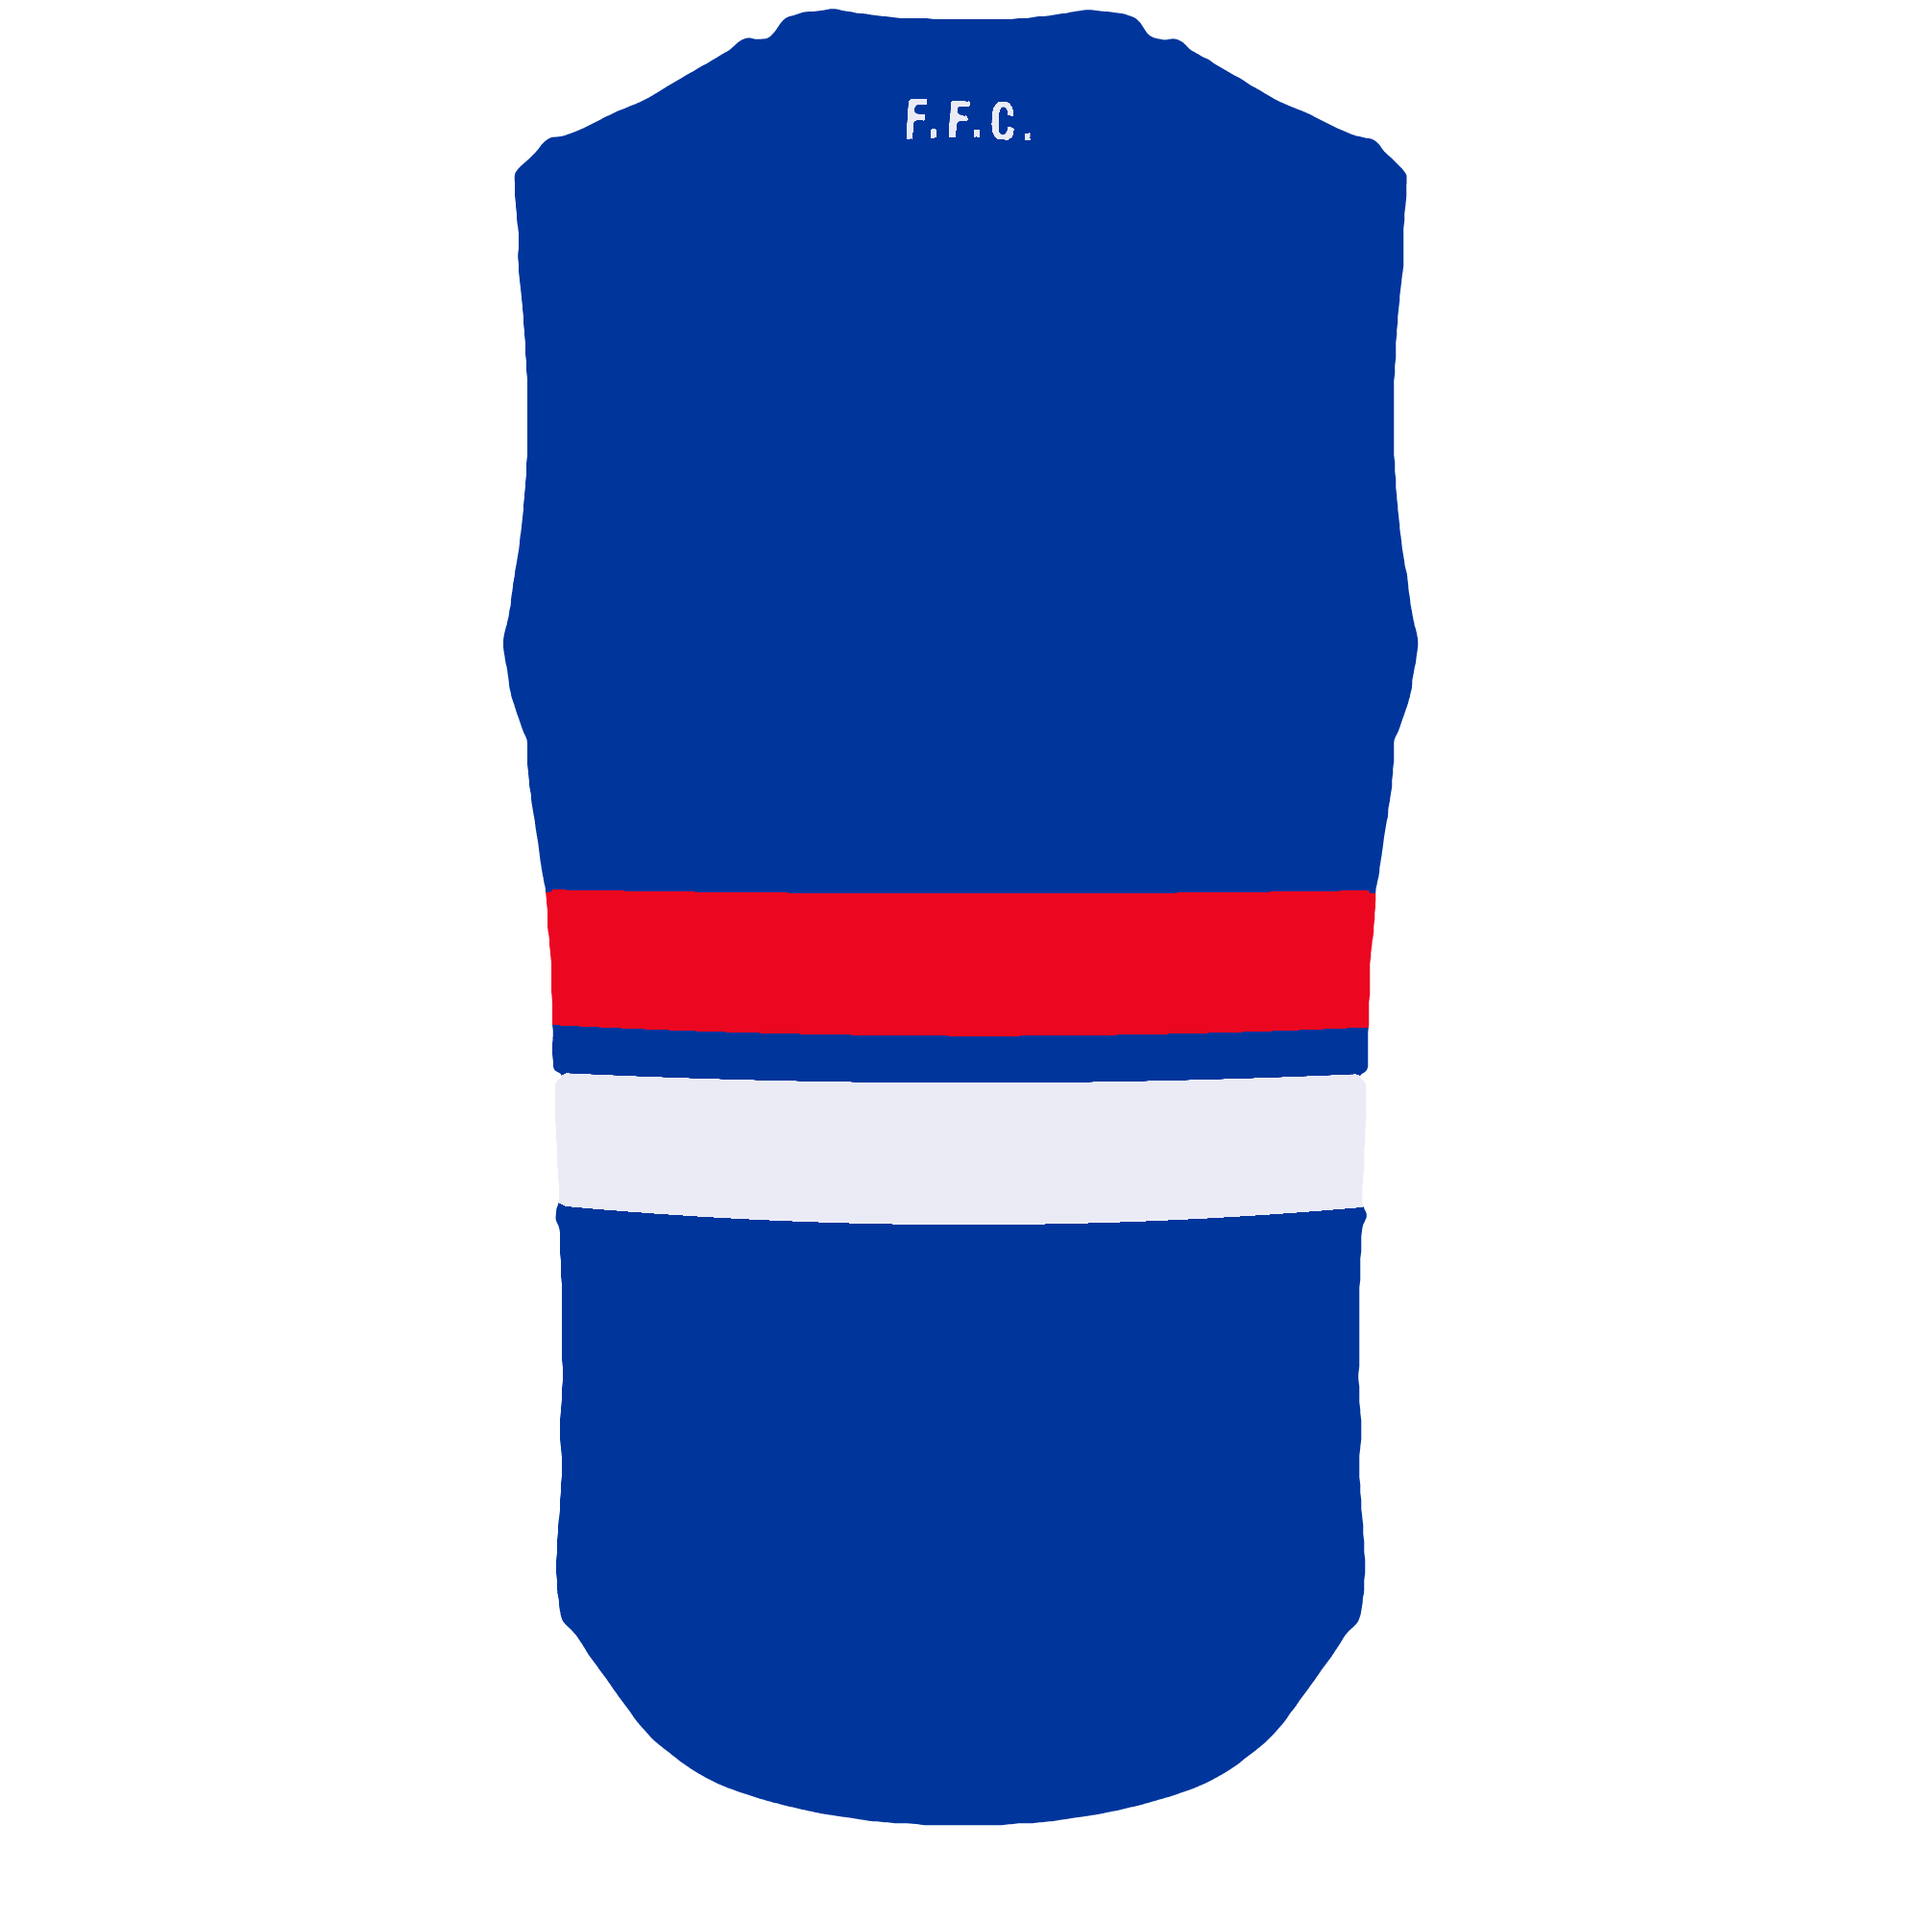
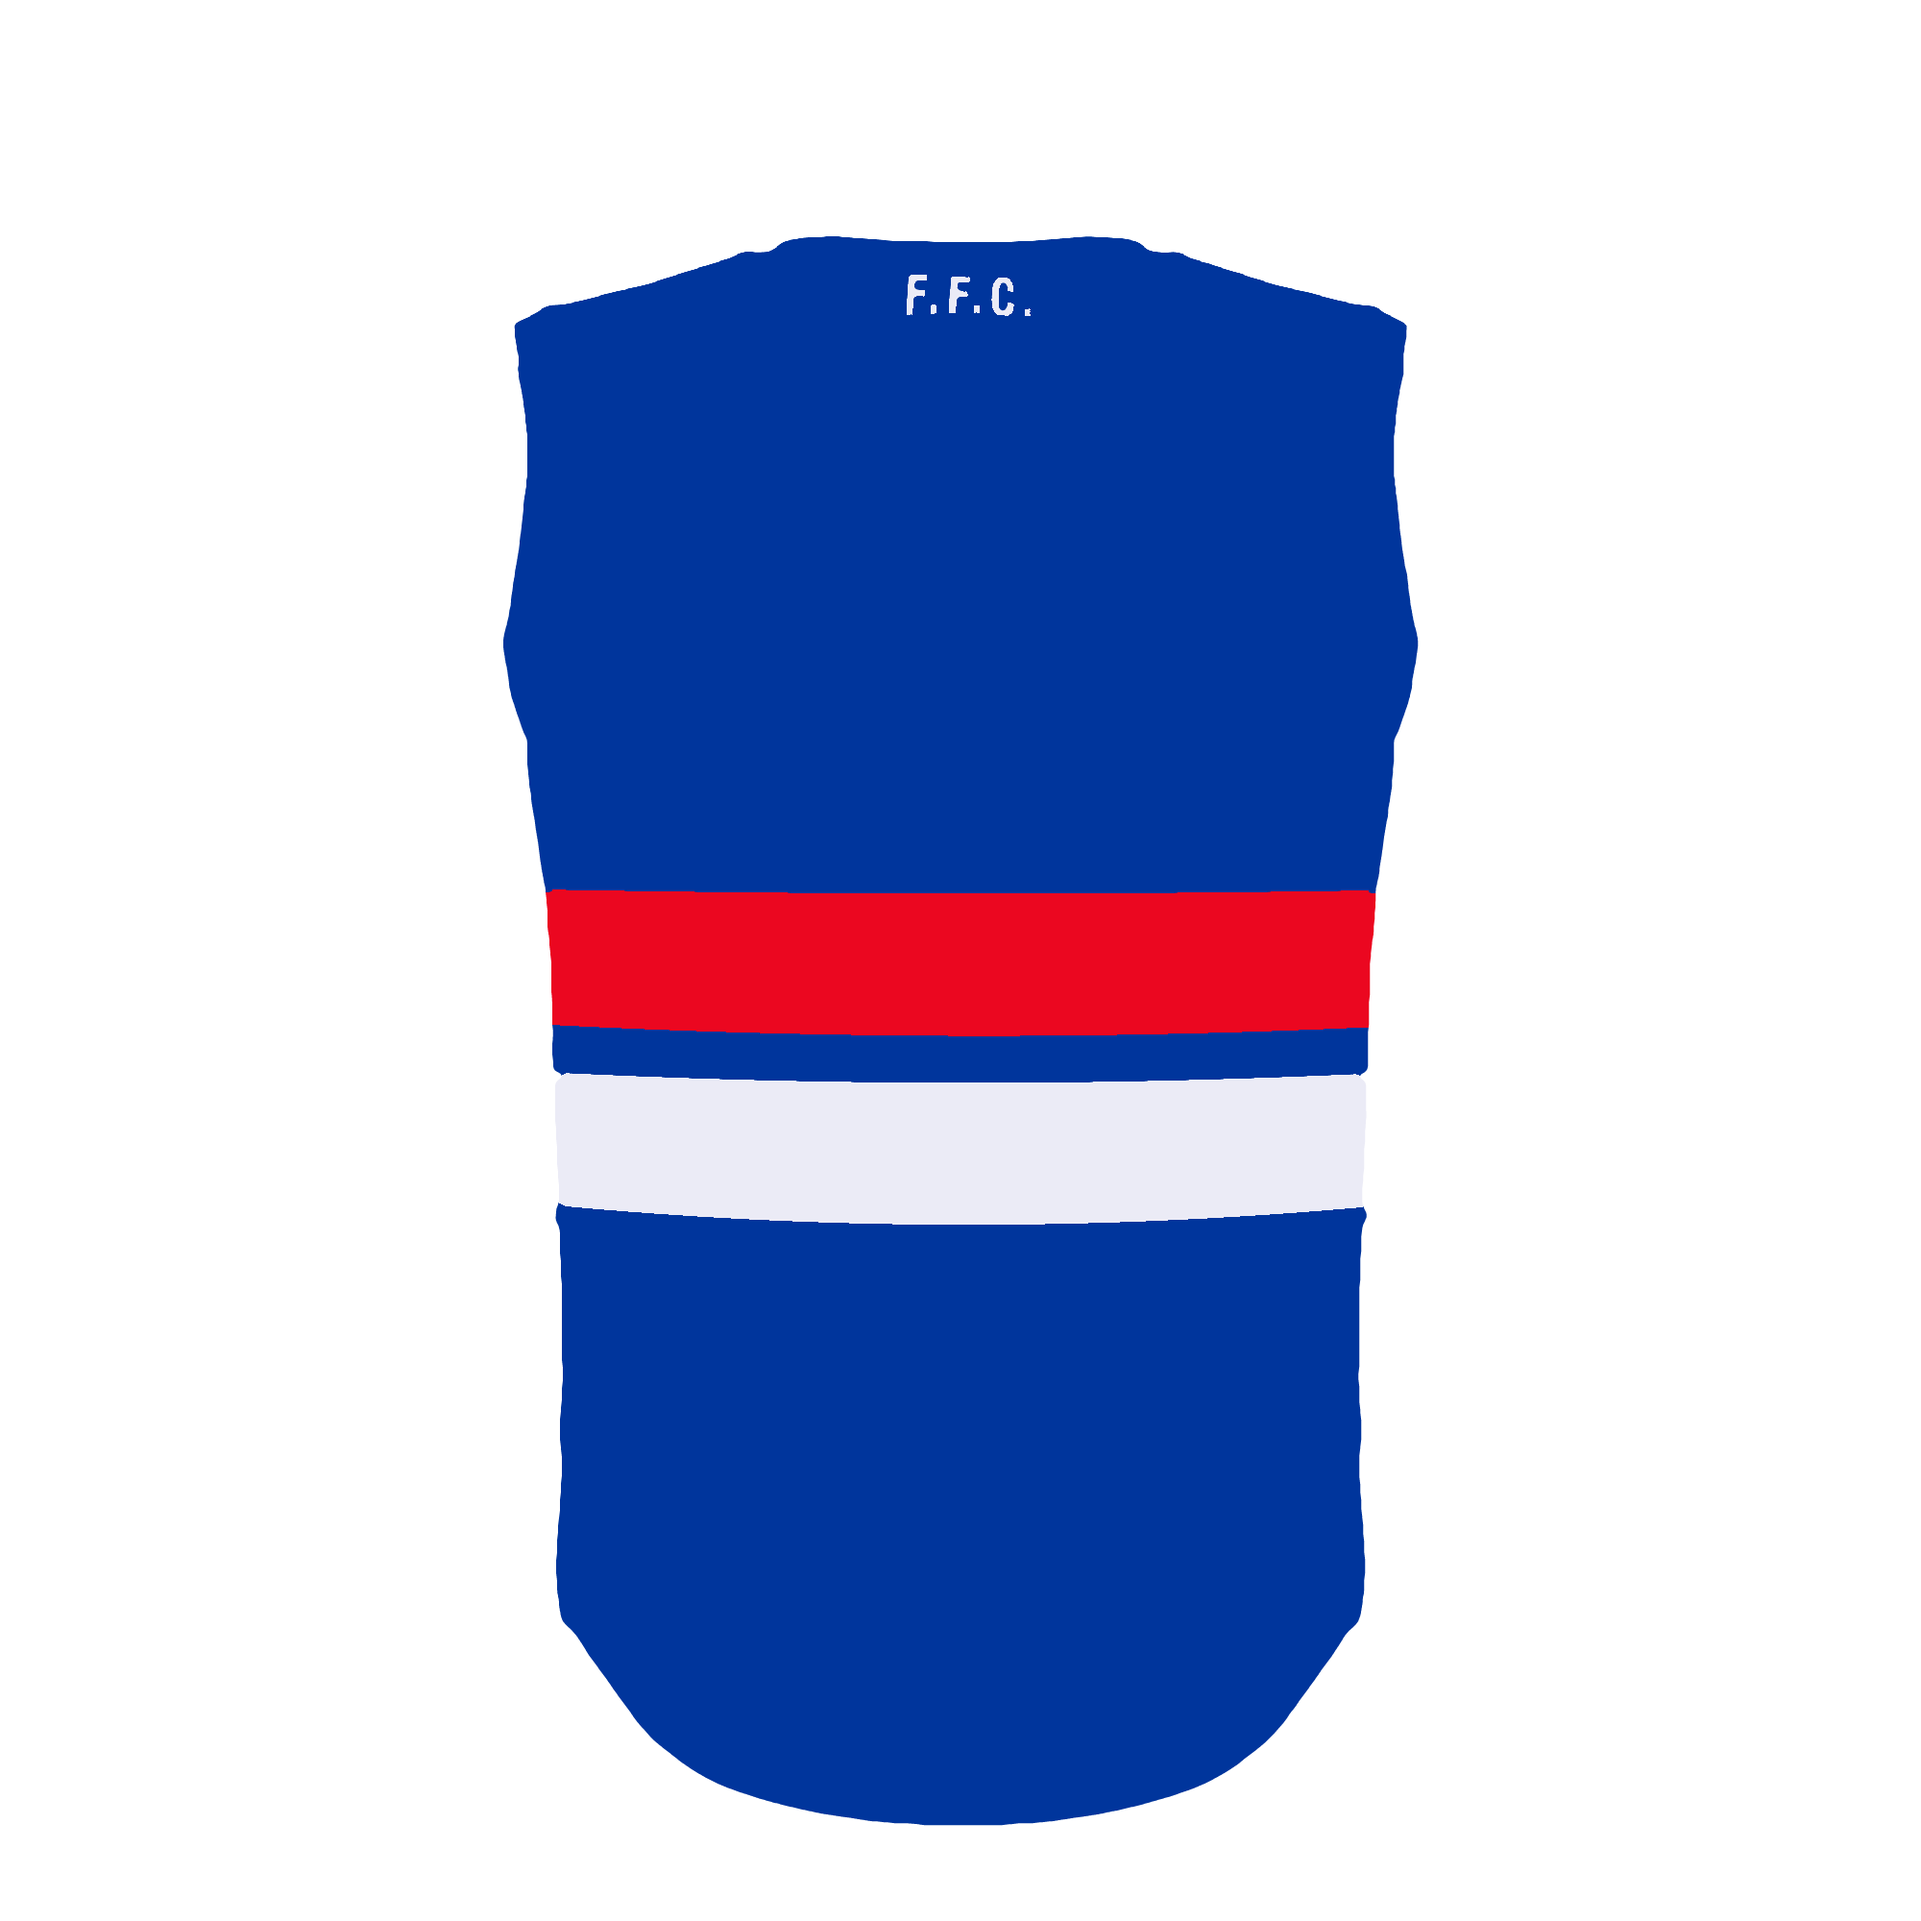
WBD: squash above the armpit to the other clubs' height; front sides from the back
Director 2026-11-19 ("Lower to other clubs"): rows 10-520 of both designs go into rows
246-520, so the neck loop runs 1.541-1.615 m like every other club's (was to 1.674 m)
and the collar binding draws clean. The front's sides take the straight-on back's
outline (the store mannequin is turned), making the armhole loops symmetric.
The WBD cut is still held back: the armhole binding draws ragged red under the
armpits (the front of the armhole loop climbs from 1.39 to 1.43 m where HAW's runs flat).

Changed region(s): [[0.248, 0.0, 0.744, 0.217]]

diff --git a/tools/kits/guernsey3d/club_fixes/wbd_squash.py b/tools/kits/guernsey3d/club_fixes/wbd_squash.py
@@ -1,0 +1,51 @@
+# wbd_squash.py: Western Bulldogs, run last on the designs (after trace, wbd_design_fix.py).
+# The AFL Store photo of the Bulldogs guernsey stands about 10 cm taller above the armpit than every other
+# club's: placed by its armpit and chest width, its top reaches row 10 of the frame where Hawthorn's and
+# Melbourne's reach row 246-247. Cut that way the neck sat 6 cm up the neck (neck loop to 1.674 m against
+# 1.603-1.613 m for the other clubs) and the collar binding broke into red patches over the back.
+# Director 2026-11-19, asked to lower it or drop the binding: "Lower to other clubs".
+# Rows 10-520 of each design are squashed into rows 246-520 (x0.537, straight line, every column); rows from
+# 520 down stay as they are, so the front F.F.C. (rows 572-656) and the hoops keep their shape. The back's
+# F.F.C. (rows 85-163, under the collar) is put back unsquashed, centred where its middle row lands.
+import numpy as np
+from PIL import Image
+from scipy.ndimage import map_coordinates
+TOP0, TOP1, KEEP = 10.0, 246.0, 520.0
+k = (KEEP - TOP1) / (KEEP - TOP0)
+for side in ('front', 'back'):
+    p = f'design_WBD_{side}.png'
+    a = np.asarray(Image.open(p).convert('RGBA')).astype(np.float32)
+    H, W = a.shape[:2]
+    yo = np.arange(H, dtype=np.float32)
+    ys = np.where(yo >= KEEP, yo, np.where(yo >= TOP1, KEEP - (KEEP - yo) / k, -10.0))
+    Y, X = np.meshgrid(ys, np.arange(W, dtype=np.float32), indexing='ij')
+    out = np.stack([map_coordinates(a[..., c], [Y, X], order=0, mode='constant', cval=0.0) for c in range(4)], -1)
+    if side == 'back':
+        y0, y1, x0, x1 = 85, 164, 915, 1101
+        patch = a[y0:y1, x0:x1]
+        mid = KEEP - (KEEP - (y0 + y1) / 2) * k
+        t = int(round(mid - (y1 - y0) / 2))
+        out[t:t + (y1 - y0), x0:x1] = patch
+        print('back F.F.C. pasted at rows', t, t + y1 - y0)
+    Image.fromarray(np.clip(out, 0, 255).astype(np.uint8)).save(p)
+    r = np.nonzero(out[..., 3].max(1) > 127)[0]
+    print(side, 'rows', r.min(), '-', r.max())
+# The front's sides. The front photo's mannequin is turned, so its left side shows the side panel (half-width
+# 571 px at row 420 against 438 on the right; the director's straight-on back is 455 both sides). Where front
+# and back sides disagree, the cut's armhole loop jogs at the side seam and the armhole binding draws ragged red
+# down the side. Rows 246-1000: the front's outermost left and right edges are set to the back's (mirrored, as the
+# back is seen from behind); the front's own neck opening between them is kept; cloth added at an edge takes the
+# colour of the front's own last cloth pixel on that row.
+f = np.asarray(Image.open('design_WBD_front.png').convert('RGBA')).copy()
+b = np.asarray(Image.open('design_WBD_back.png').convert('RGBA'))[:, ::-1]
+for y in range(246, 1001):
+    fx = np.nonzero(f[y, :, 3] > 127)[0]; bx = np.nonzero(b[y, :, 3] > 127)[0]
+    if not len(fx) or not len(bx):
+        continue
+    l0, r0, l1, r1 = fx.min(), fx.max(), bx.min(), bx.max()
+    left, right = f[y, l0].copy(), f[y, r0].copy()
+    f[y, :l1, 3] = 0; f[y, r1 + 1:, 3] = 0
+    if l1 < l0: f[y, l1:l0] = left
+    if r1 > r0: f[y, r0 + 1:r1 + 1] = right
+Image.fromarray(f).save('design_WBD_front.png')
+print('front sides set to the back\'s on rows 246-1000')
